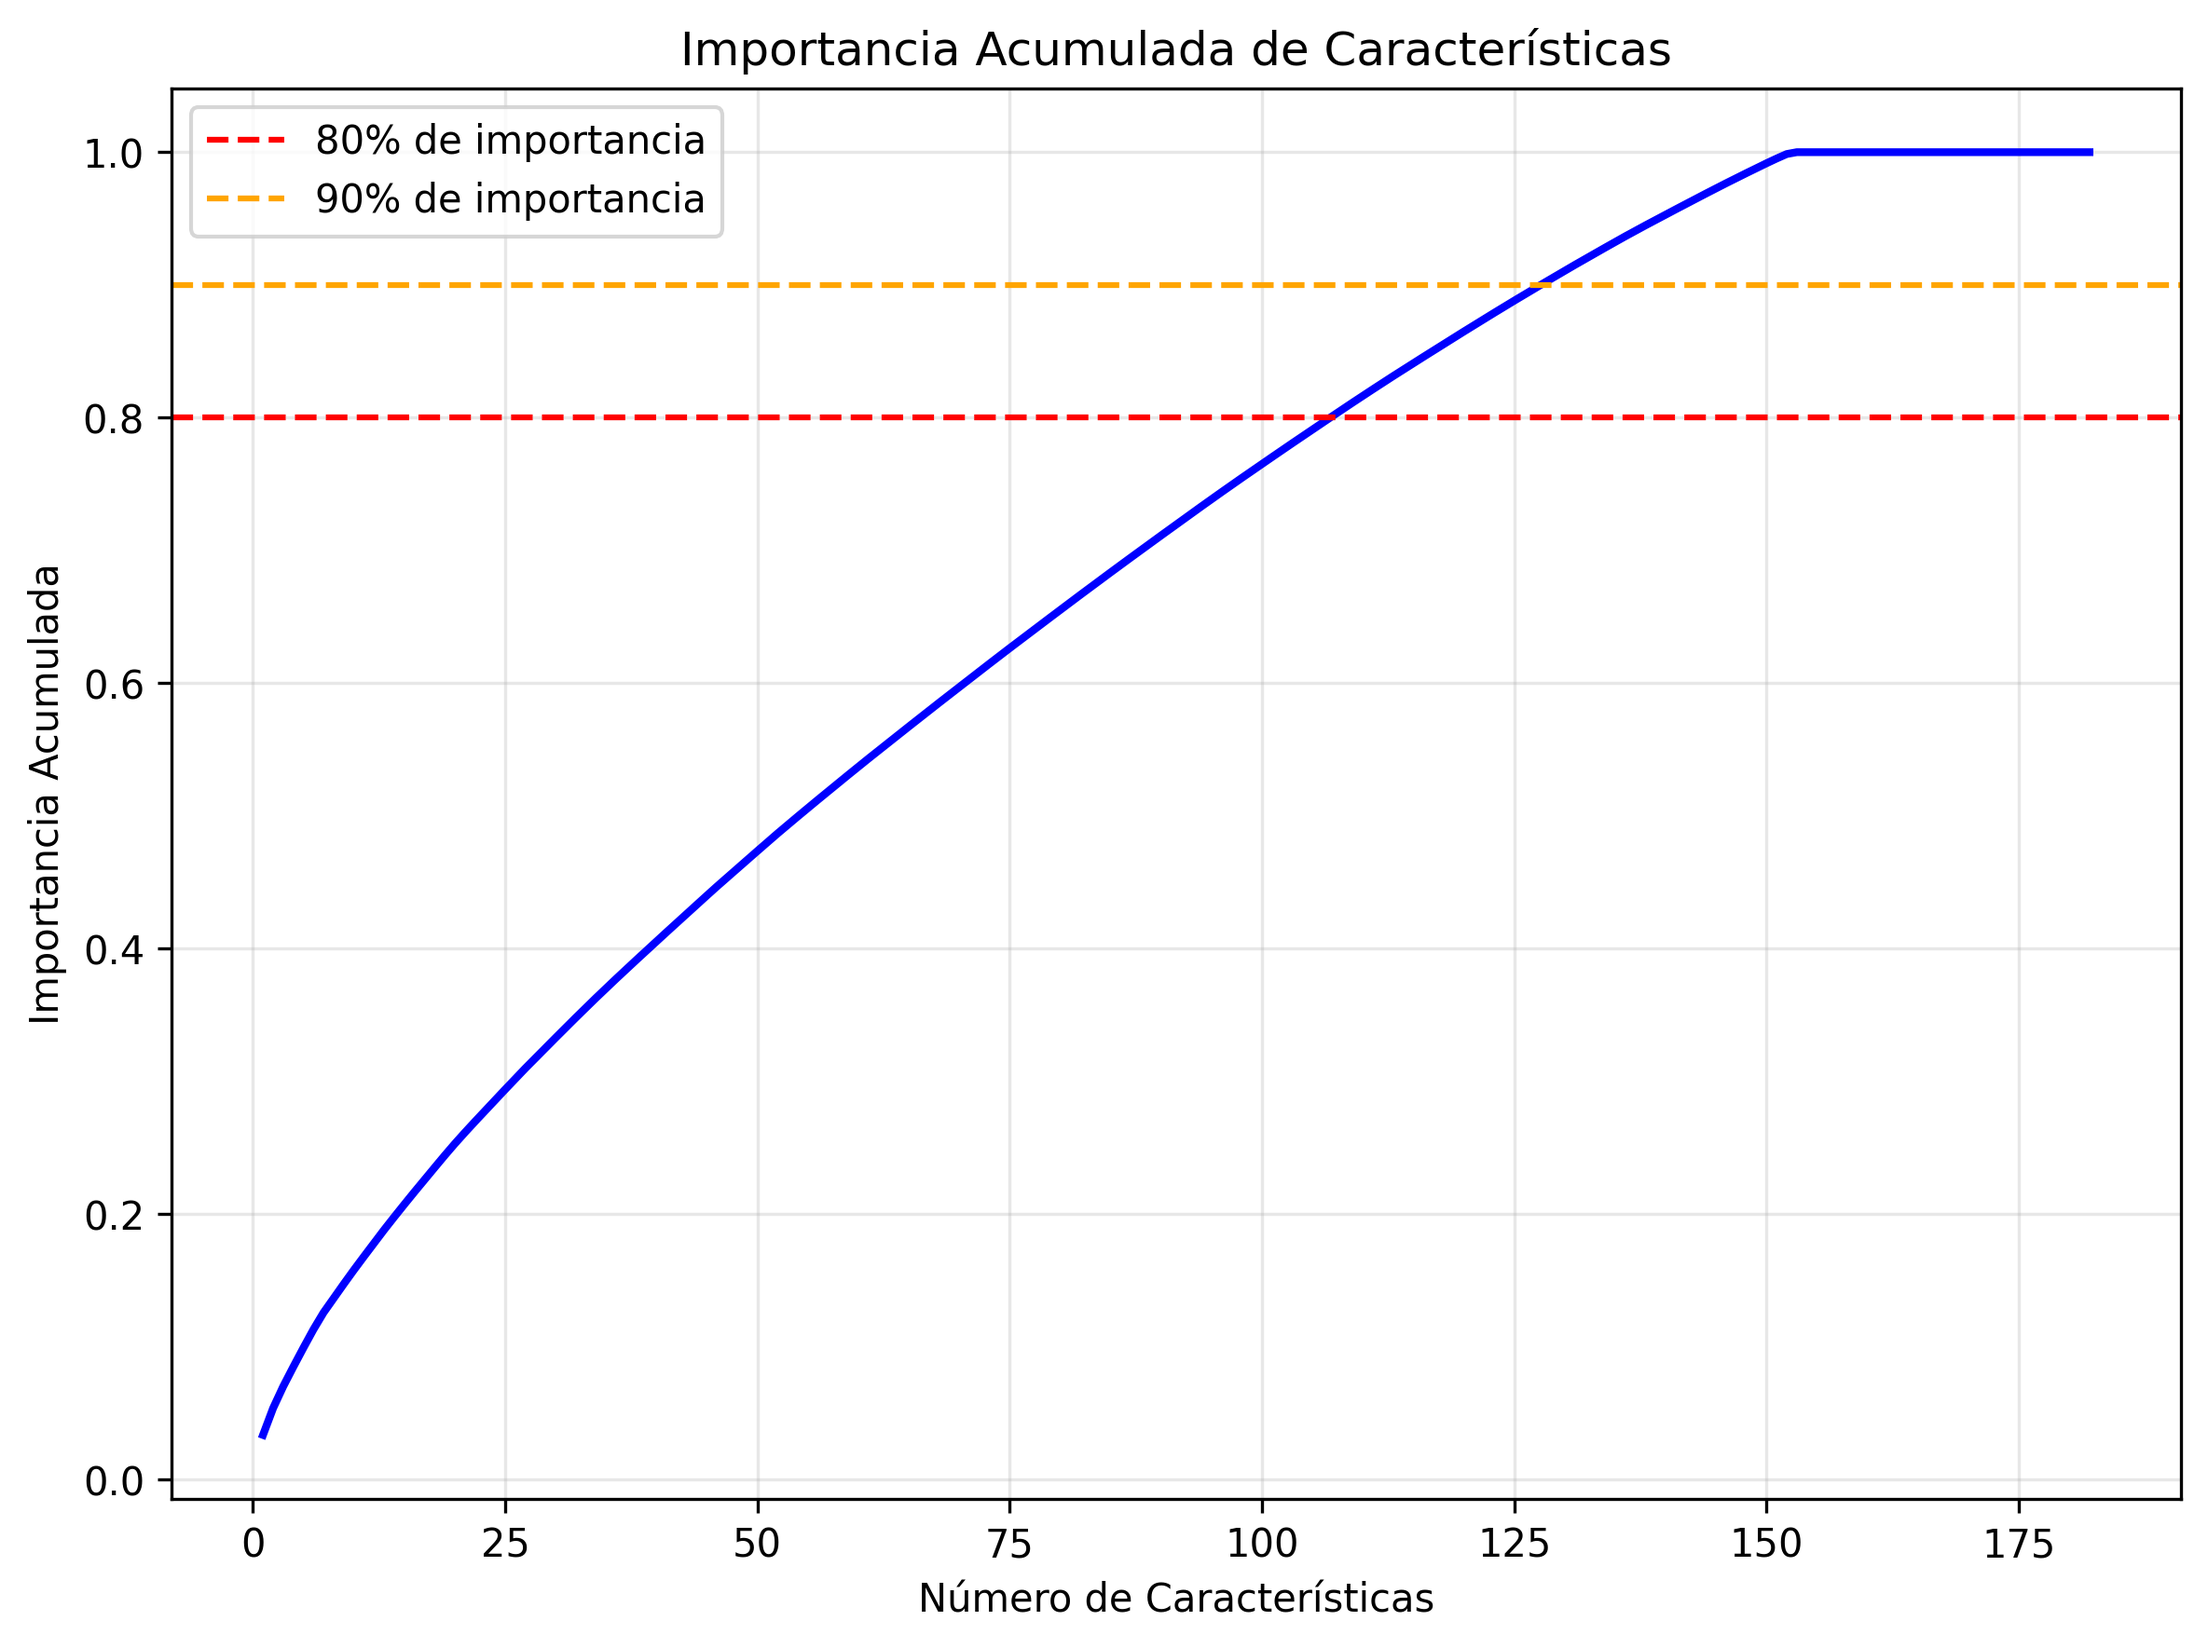
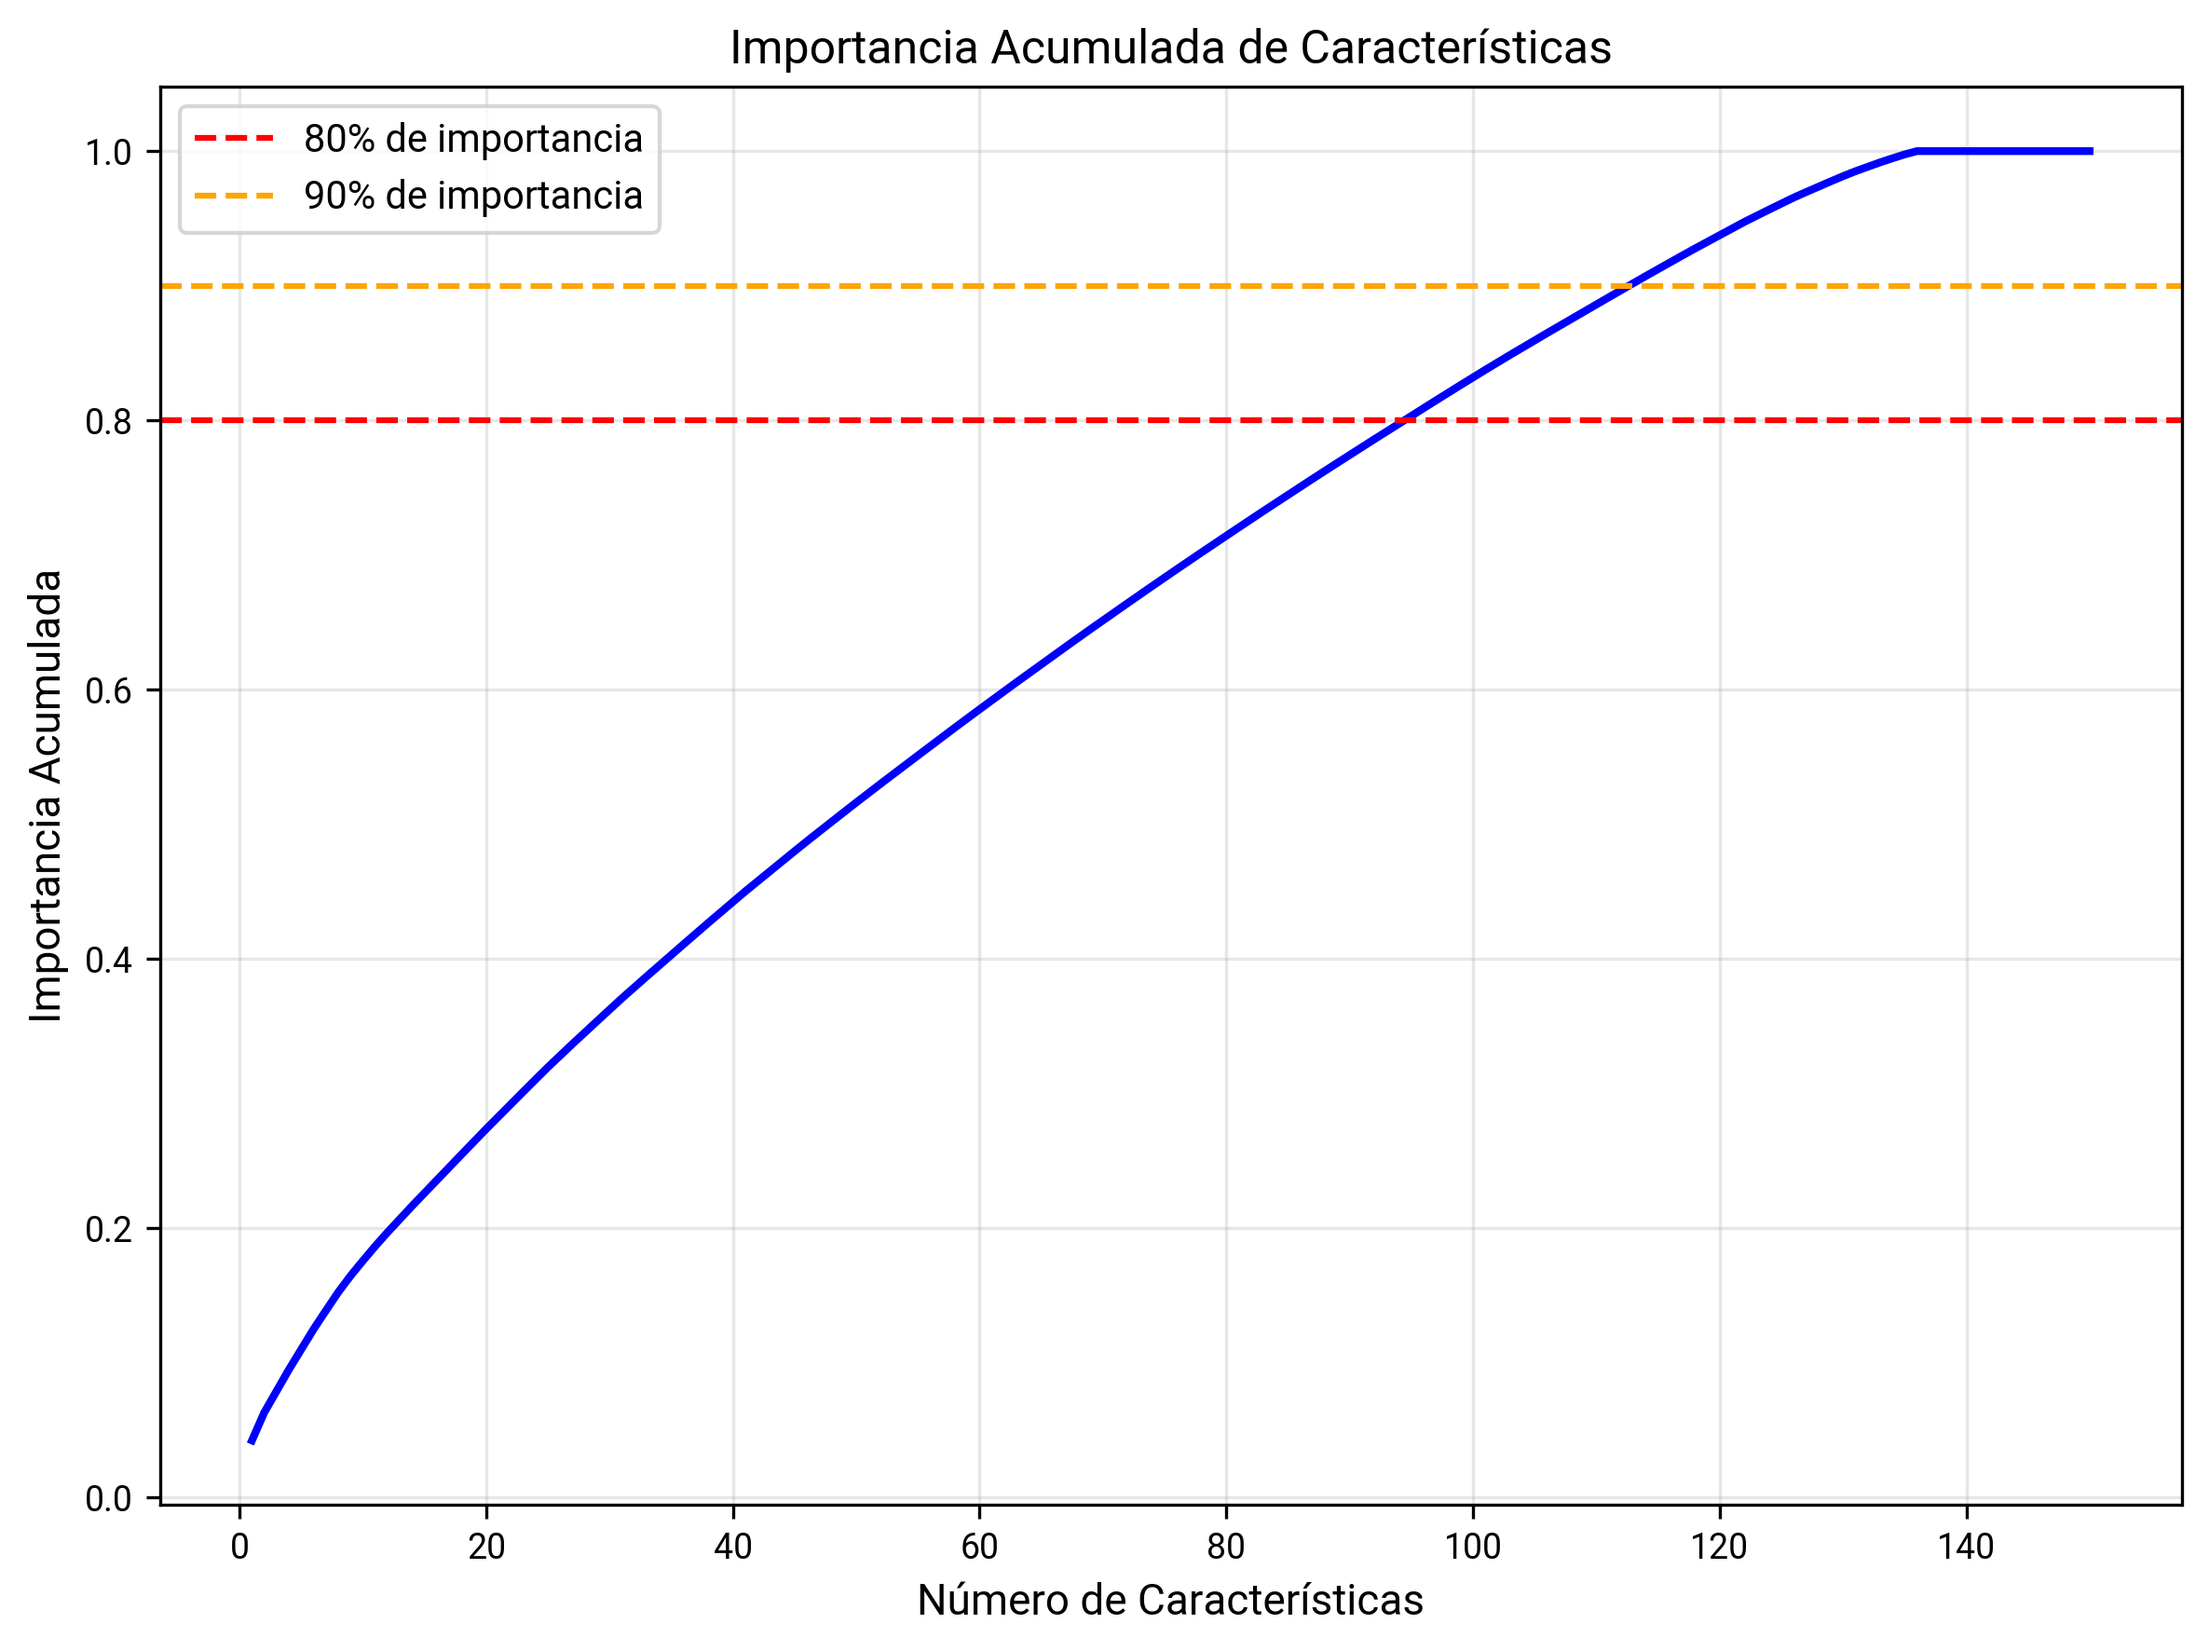
Features Selection Report

diff --git a/reports/eda_analysis_no_moodle/01_features_selection/README.md b/reports/eda_analysis_no_moodle/01_features_selection/README.md
@@ -1,0 +1,54 @@
+# Análisis de Selección de Características
+
+Análisis de importancia y selección de características del dataset de sin las asignaturas Ciencias Sociales, Ciencias Naturales, Matemáticas y Lengua Castellana y sin las características de Moodle
+
+## Importancia de Características
+**Gráfica de barras horizontales** que muestra las características más importantes según el modelo de XGBoost.
+
+![Top Features](top_features.png)
+
+**Qué muestra:**
+- Las 20 características con mayor importancia según el modelo XGBoost
+- La longitud de la barra indica el valor de importancia
+- Las características están ordenadas de mayor a menor importancia
+- Los valores exactos se muestran al final de cada barra
+
+## Distribución de Importancia
+**Histograma** que muestra la distribución de valores de importancia de todas las características.
+
+![Distribución de Importancia](importance_distribution.png)
+
+**Qué muestra:**
+- La frecuencia de características según su nivel de importancia
+- Ayuda a identificar si hay características claramente más importantes que otras
+- Permite establecer umbrales para la selección de características
+
+## Importancia Acumulativa
+**Gráfica de línea** que muestra la importancia acumulada de las características ordenadas por importancia.
+
+![Importancia Acumulativa](cumulative_importance.png)
+
+**Qué muestra:**
+- La curva de importancia acumulada permite identificar cuántas características son necesarias
+- El punto de inflexión indica el número óptimo de características
+- Ayuda a determinar el umbral para la selección de características
+
+## Análisis SHAP
+**Gráfica de barras** que muestra los valores SHAP (SHapley Additive exPlanations) para las características más importantes.
+
+![Análisis SHAP](shap_bar_plot.png)
+
+**Qué muestra:**
+- Los valores SHAP proporcionan explicaciones locales de las predicciones del modelo
+- Muestra cómo cada característica contribuye a la predicción
+- Los valores positivos indican contribución positiva, los negativos contribución negativa
+
+## Matriz de Confusión
+**Matriz de confusión** que evalúa el rendimiento del modelo de clasificación.
+
+![Matriz de Confusión](confusion_matrix.png)
+
+**Qué muestra:**
+- La precisión del modelo en la clasificación de estudiantes
+- Verdaderos positivos, falsos positivos, verdaderos negativos y falsos negativos
+- Métricas de rendimiento como precisión, recall y F1-score

diff --git a/reports/eda_analysis_moodle/01_features_selection/README.md b/reports/eda_analysis_moodle/01_features_selection/README.md
@@ -1,0 +1,54 @@
+# Análisis de Selección de Características
+
+Análisis de importancia y selección de características del dataset de Moodle (Ciencias Sociales, Ciencias Naturales, Matemáticas y Lengua Castellana)
+
+## Importancia de Características
+**Gráfica de barras horizontales** que muestra las características más importantes según el modelo de XGBoost.
+
+![Top Features](top_features.png)
+
+**Qué muestra:**
+- Las 20 características con mayor importancia según el modelo XGBoost
+- La longitud de la barra indica el valor de importancia
+- Las características están ordenadas de mayor a menor importancia
+- Los valores exactos se muestran al final de cada barra
+
+## Distribución de Importancia
+**Histograma** que muestra la distribución de valores de importancia de todas las características.
+
+![Distribución de Importancia](importance_distribution.png)
+
+**Qué muestra:**
+- La frecuencia de características según su nivel de importancia
+- Ayuda a identificar si hay características claramente más importantes que otras
+- Permite establecer umbrales para la selección de características
+
+## Importancia Acumulativa
+**Gráfica de línea** que muestra la importancia acumulada de las características ordenadas por importancia.
+
+![Importancia Acumulativa](cumulative_importance.png)
+
+**Qué muestra:**
+- La curva de importancia acumulada permite identificar cuántas características son necesarias
+- El punto de inflexión indica el número óptimo de características
+- Ayuda a determinar el umbral para la selección de características
+
+## Análisis SHAP
+**Gráfica de barras** que muestra los valores SHAP (SHapley Additive exPlanations) para las características más importantes.
+
+![Análisis SHAP](shap_bar_plot.png)
+
+**Qué muestra:**
+- Los valores SHAP proporcionan explicaciones locales de las predicciones del modelo
+- Muestra cómo cada característica contribuye a la predicción
+- Los valores positivos indican contribución positiva, los negativos contribución negativa
+
+## Matriz de Confusión
+**Matriz de confusión** que evalúa el rendimiento del modelo de clasificación.
+
+![Matriz de Confusión](confusion_matrix.png)
+
+**Qué muestra:**
+- La precisión del modelo en la clasificación de estudiantes
+- Verdaderos positivos, falsos positivos, verdaderos negativos y falsos negativos
+- Métricas de rendimiento como precisión, recall y F1-score
